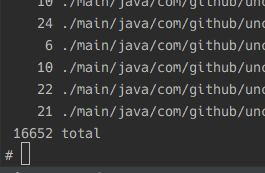
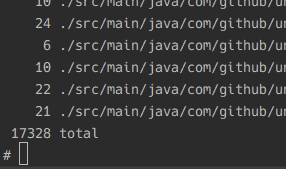
fix the line counts

diff --git a/slide.md b/slide.md
@@ -8,9 +8,9 @@ section {
 }
 </style>
 
-# **16k行のKotlinを力尽くでScalaに移行した話**
+# **1万7千行のKotlinを力尽くでScalaに移行した話**
 
-## How I migrated 16k Kotlin lines to Scala by force
+## How I migrated 17k Kotlin lines to Scala by force
 
 by kory33 (@Kory__3)
 
@@ -216,7 +216,7 @@ Maybe it is not too late to move everything to Scala
 
 `find . -name '*.kt' | xargs wc -l` 
 
-### .. 16652 lines!
+### .. 17328 lines!
 
 ![wc-kt-before](./resources/wc-kt-before-enlarged.png)
 
@@ -295,4 +295,16 @@ someCollection.forEach {
 
 ---
 
+# So ...
+
+---
+
+# Into Fire
+
+138 Files Renamed ([`4ecf20b8`](https://github.com/GiganticMinecraft/SeichiAssist/commit/4ecf20b8))
+
+![replace commit](./resources/replace-commit-enlarged.png)
+
+(実はこのコミット前に少しだけScalaへ移す試みをしていますが、そこでインクリメンタルな移行が不可能だと悟っています
+Right before this commit was an attempt to migrating incrementally; I soon surmised this was impossible)
 
